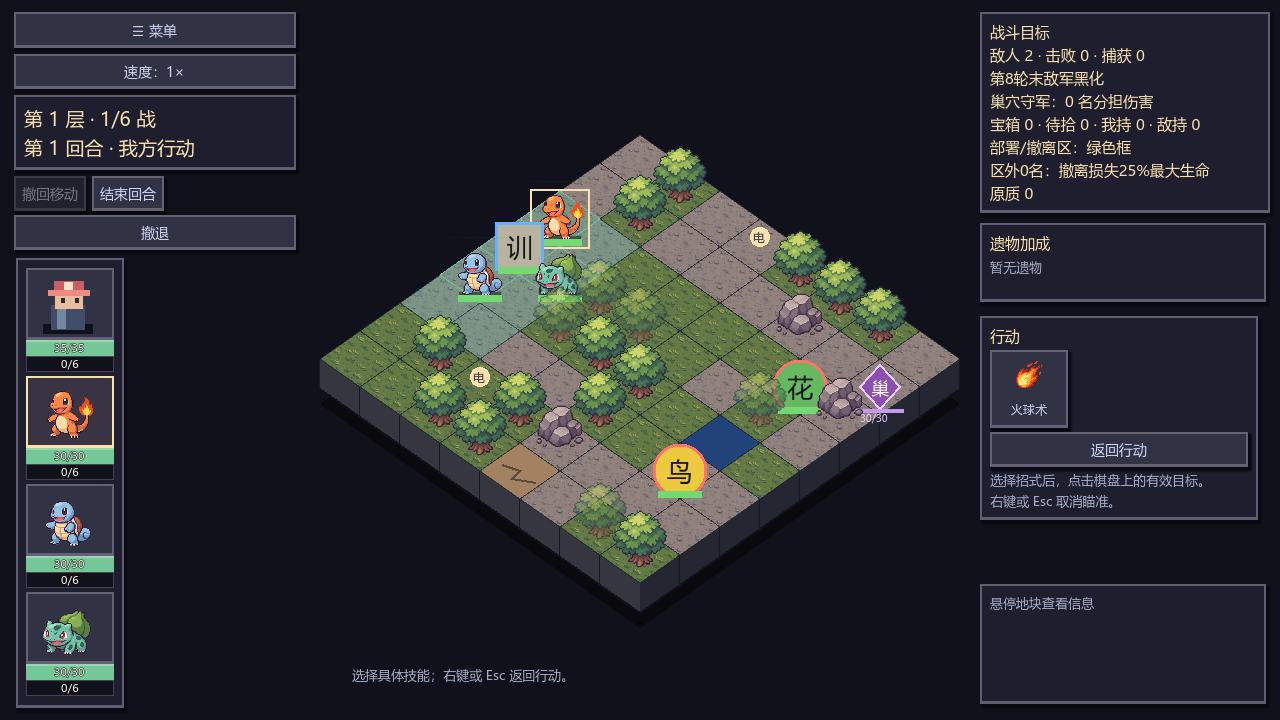
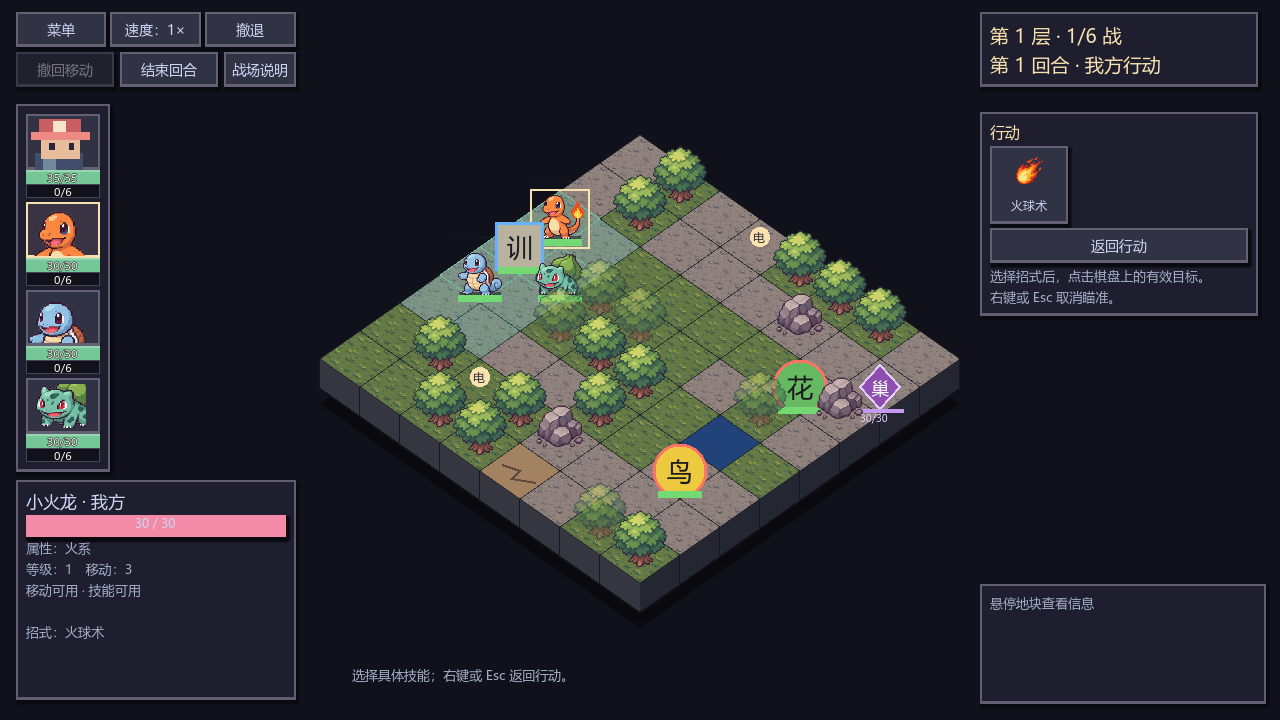
ui: compact battle toolbar and headshots and restore bottom-left unit details

Changed region(s): [[0.0, 0.0306, 0.25, 1.0], [0.75, 0.0306, 1.0, 0.7333]]

diff --git a/sample/ISOMETRIC.md b/sample/ISOMETRIC.md
@@ -34,3 +34,13 @@
 - 四名初始成员在1280×720画面内同时显示；隐藏重复的左下角选中单位卡。
 - 训练师头像使用临时程序绘制形象，尚非正式委托的角色立绘。
 - 本轮验证：等角与头像专项358检查点、界面流程150检查点、成长显示15检查点通过。
+
+## 战斗HUD重新布局（2026-11-11）
+
+- 菜单、速度、撤退改为左上横排三按钮；撤回移动、结束回合与战场说明位于第二排。
+- 原右上长篇战斗目标改为右上回合/行动方；完整战场说明由按钮按需打开。
+- 队伍栏上移至y=104；头像使用图集区域裁切的头部特写，卡片为64×56头像加两条14像素数值条。
+- 四张卡片完整显示于左下详情上方，布局断言检查末张卡片边界。
+- 左下恢复280×220单位详情；名称、血量、属性、等级、行动与招式常驻，禁锢/蒸汽等重要限制保留。内容过多时仅详情区滚动。
+- 无遗物时隐藏空遗物面板，行动区自动上移。
+- 本轮验证：等角/头像/HUD专项366检查点；界面流程150检查点。
